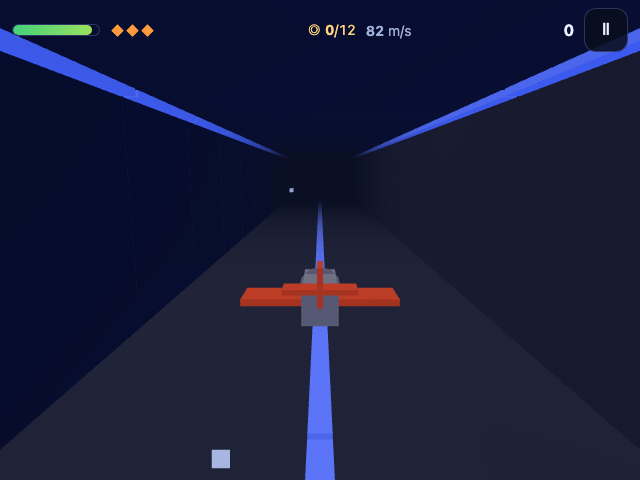
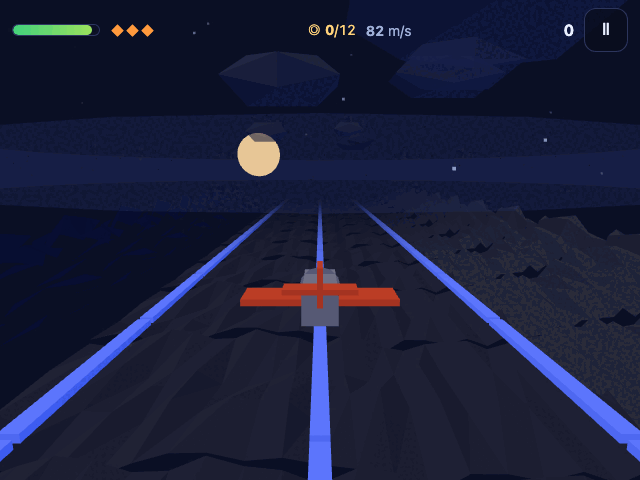
feat: valley flight visuals
- scene.js: low-poly ridge walls + rolling ground, open sky (stars, sun glow, horizon haze), high-altitude cloud band for the top bound
- keep all rules/collisions unchanged (tests still 29/29)
- regenerate 640x480 thumbnail (37.5KB, <50KB)

diff --git a/scene.js b/scene.js
@@ -1,18 +1,60 @@
-// scene.js — Three.js 視覺層。只依賴傳入的 THREE namespace；不碰 window.PG／DOM 邏輯。
+// scene.js — Three.js 視覺層：山谷飛行（規則參數仍來自 rules.js；不碰 window.PG）
 import { RULES } from "./rules.js";
 
 const SEG_LEN = 14;
 const SEG_COUNT = 14; // 覆蓋 196 單位，約等於地平線深度
-const STAR_COUNT = 420;
+const STAR_COUNT = 520;
 const STAR_SPAN = 360;
 
-/** 由 id 產生穩定的偽隨機角度（避免 Math.random 讓同場岩柱形狀跳動） */
+function mulberry32(seed) {
+  let a = seed >>> 0;
+  return function rng() {
+    a |= 0;
+    a = (a + 0x6d2b79f5) | 0;
+    let t = Math.imul(a ^ (a >>> 15), 1 | a);
+    t = (t + Math.imul(t ^ (t >>> 7), 61 | t)) ^ t;
+    return ((t ^ (t >>> 14)) >>> 0) / 4294967296;
+  };
+}
+
+/** 由 id 產生穩定的偽隨機角度（避免同場岩柱形狀跳動） */
 function hashAngle(id, salt) {
   let h = (id * 2654435761 + salt * 97) >>> 0;
   h ^= h >>> 13;
   h = Math.imul(h, 0xc2b2ae35) >>> 0;
   h ^= h >>> 16;
   return (h / 4294967296) * Math.PI * 2;
+}
+
+function buildTerrain(THREE, r, kind) {
+  // kind: "mountain"（側山脊，朝走廊中心下降）| "ground"（地面山丘）
+  const rng = mulberry32(kind === "mountain" ? 0x5eed : 0x1a2b);
+  const width = kind === "mountain" ? r.halfW + 4 : r.halfW * 2 + 8;
+  const geo = new THREE.PlaneGeometry(width, SEG_LEN, 22, 3);
+  geo.rotateX(-Math.PI / 2); // 朝上
+  const pos = geo.attributes.position;
+  for (let i = 0; i < pos.count; i++) {
+    const x = pos.getX(i); // 本地 -width/2..width/2
+    const z = pos.getZ(i);
+    if (kind === "mountain") {
+      // 內緣（x=-width/2）低，朝外緣（x=+width/2）上升
+      const u = (x + width / 2) / width; // 0=內 .. 1=外
+      const fall = Math.pow(u, 1.4);
+      const y =
+        (rng() * 5 + 3.5) * fall +
+        (rng() - 0.5) * 2.2 * fall +
+        Math.sin(x * 0.3 + z * 0.4) * 0.7 * fall;
+      pos.setY(i, y);
+    } else {
+      const y =
+        (rng() - 0.5) * 1.4 +
+        Math.sin(x * 0.18 + z * 0.45) * 0.5 +
+        Math.sin(z * 0.9) * 0.3;
+      pos.setY(i, y);
+    }
+  }
+  geo.computeVertexNormals();
+  return geo;
 }
 
 export function createScene(THREE, hostEl) {
@@ -39,48 +81,102 @@ export function createScene(THREE, hostEl) {
   // ── 星空 ────────────────────────────────────────────────
   const starPos = new Float32Array(STAR_COUNT * 3);
   for (let i = 0; i < STAR_COUNT; i++) {
-    starPos[i * 3] = (Math.random() * 2 - 1) * 180;
-    starPos[i * 3 + 1] = (Math.random() * 2 - 1) * 140;
+    starPos[i * 3] = (Math.random() * 2 - 1) * 220;
+    starPos[i * 3 + 1] = Math.random() * 160; // 地平線以上
     starPos[i * 3 + 2] = -STAR_SPAN + Math.random() * STAR_SPAN;
   }
   const starGeo = new THREE.BufferGeometry();
   starGeo.setAttribute("position", new THREE.BufferAttribute(starPos, 3));
   const stars = new THREE.Points(
     starGeo,
-    new THREE.PointsMaterial({ color: 0xbfd0ff, size: 0.9, sizeAttenuation: true, transparent: true, opacity: 0.85 })
+    new THREE.PointsMaterial({ color: 0xbfd0ff, size: 1.0, sizeAttenuation: true, transparent: true, opacity: 0.85 })
   );
   scene.add(stars);
 
-  // ── 走廊（分節循環）─────────────────────────────────────
-  const wallMat = new THREE.MeshStandardMaterial({ color: 0x232c4a, roughness: 0.92, metalness: 0.12, flatShading: true });
-  const stripMat = new THREE.MeshStandardMaterial({ color: 0x7d95ff, emissive: 0x2c46b8, emissiveIntensity: 1.1, roughness: 0.4, metalness: 0.3 });
+  // ── 地平線霧光（太陽在遠方）────────────────────────────
+  const sunGlow = new THREE.Mesh(
+    new THREE.SphereGeometry(9, 20, 20),
+    new THREE.MeshBasicMaterial({ color: 0xffd9a0, fog: false, transparent: true, opacity: 0.9 })
+  );
+  sunGlow.position.set(-26, 10, -r.horizonZ + 6);
+  scene.add(sunGlow);
+  const horizonHaze = new THREE.Mesh(
+    new THREE.CylinderGeometry(1, 1, 1, 24, 1, true),
+    new THREE.MeshBasicMaterial({
+      color: 0x2a3a7a,
+      transparent: true,
+      opacity: 0.22,
+      side: THREE.DoubleSide,
+      depthWrite: false,
+      fog: false,
+    })
+  );
+  horizonHaze.scale.set(120, 14, 120);
+  horizonHaze.position.set(0, 4, -r.horizonZ + 2);
+  scene.add(horizonHaze);
+
+  // ── 山谷地形（分節循環：側山脊＋地面山丘）───────────────
+  const ridgeMat = new THREE.MeshStandardMaterial({ color: 0x232c4a, roughness: 0.95, metalness: 0.05, flatShading: true });
+  const groundMat = new THREE.MeshStandardMaterial({ color: 0x1d2440, roughness: 0.97, metalness: 0.03, flatShading: true });
+  const edgeMat = new THREE.MeshStandardMaterial({ color: 0x7d95ff, emissive: 0x2c46b8, emissiveIntensity: 1.2, roughness: 0.4, metalness: 0.3 });
+  const ridgeGeo = buildTerrain(THREE, r, "mountain");
+  const groundGeo = buildTerrain(THREE, r, "ground");
+
+  // 側山脊：高緣朝外，內緣（走廊側）貼著壁面低下去
+  const ridgeGeoL = ridgeGeo.clone();
+  ridgeGeoL.scale(-1, 1, 1); // 左側鏡射（高緣在外）
+  const ridgeGeoR = ridgeGeo; // 右側原向（高緣在 +x 外緣）
+
   const segs = [];
   for (let i = 0; i < SEG_COUNT; i++) {
     const g = new THREE.Group();
-    const wallL = new THREE.Mesh(new THREE.BoxGeometry(4, 26, SEG_LEN), wallMat);
-    wallL.position.set(-(r.halfW + 2), 0, 0);
-    g.add(wallL);
-    const wallR = wallL.clone();
-    wallR.position.x = r.halfW + 2;
-    g.add(wallR);
-    const floor = new THREE.Mesh(new THREE.BoxGeometry(r.halfW * 2 + 8, 2, SEG_LEN), wallMat);
-    floor.position.y = -(r.halfH + 1);
-    g.add(floor);
-    const ceil = floor.clone();
-    ceil.position.y = r.halfH + 1;
-    g.add(ceil);
-    const strip = new THREE.Mesh(new THREE.BoxGeometry(1.1, 0.5, SEG_LEN - 0.4), stripMat);
-    strip.position.set(-(r.halfW - 0.55), r.halfH - 0.55, 0);
-    g.add(strip);
-    const strip2 = strip.clone();
-    strip2.position.x = r.halfW - 0.55;
-    g.add(strip2);
-    const strip3 = strip.clone();
-    strip3.position.set(0, -(r.halfH - 0.55), 0);
-    g.add(strip3);
+
+    const ridgeL = new THREE.Mesh(ridgeGeoL, ridgeMat);
+    ridgeL.position.set(-(r.halfW + 2) - (r.halfW + 4) / 2 + 1.5, -(r.halfH + 1), 0);
+    g.add(ridgeL);
+    const ridgeR = new THREE.Mesh(ridgeGeoR, ridgeMat);
+    ridgeR.position.set(r.halfW + 2 + (r.halfW + 4) / 2 - 1.5, -(r.halfH + 1), 0);
+    g.add(ridgeR);
+
+    const ground = new THREE.Mesh(groundGeo, groundMat);
+    ground.position.set(0, -(r.halfH + 1), 0);
+    g.add(ground);
+
+    // 內緣導引燈帶（山脊底緣＋地面邊緣）
+    const stripL = new THREE.Mesh(new THREE.BoxGeometry(1.0, 0.45, SEG_LEN - 0.4), edgeMat);
+    stripL.position.set(-(r.halfW - 0.5), -(r.halfH - 0.6), 0);
+    g.add(stripL);
+    const stripR = stripL.clone();
+    stripR.position.x = r.halfW - 0.5;
+    g.add(stripR);
+    const stripC = new THREE.Mesh(new THREE.BoxGeometry(0.9, 0.4, SEG_LEN - 0.4), edgeMat);
+    stripC.position.set(0, -(r.halfH - 0.55), 0);
+    g.add(stripC);
+
     g.position.z = -r.horizonZ + (i / SEG_COUNT) * SEG_COUNT * SEG_LEN;
     segs.push(g);
     scene.add(g);
+  }
+
+  // ── 高空霧氣帶（視覺化頂部邊界，不影響規則）─────────────
+  const cloudMat = new THREE.MeshStandardMaterial({
+    color: 0x39456e,
+    roughness: 1,
+    metalness: 0,
+    transparent: true,
+    opacity: 0.55,
+    flatShading: true,
+  });
+  const clouds = [];
+  {
+    const crng = mulberry32(0xc10d);
+    for (let i = 0; i < 10; i++) {
+      const m = new THREE.Mesh(new THREE.IcosahedronGeometry(1.6 + crng() * 2.2, 0), cloudMat);
+      m.position.set((crng() * 2 - 1) * (r.halfW - 2), r.halfH + 1 + crng() * 2.5, -r.horizonZ + crng() * (SEG_COUNT * SEG_LEN));
+      m.scale.set(1.6 + crng(), 0.8, 1.2 + crng());
+      clouds.push(m);
+      scene.add(m);
+    }
   }
 
   // ── 自機 ────────────────────────────────────────────────
@@ -165,10 +261,15 @@ export function createScene(THREE, hostEl) {
     const speed = active && sim ? sim.speed : 24;
     const move = speed * dt;
 
-    // 走廊循環推進
+    // 地形循環推進
     for (const g of segs) {
       g.position.z += move;
       if (g.position.z > r.removeZ + SEG_LEN / 2) g.position.z -= SEG_COUNT * SEG_LEN;
+    }
+    // 高雲循環（稍慢＝視差）
+    for (const m of clouds) {
+      m.position.z += move * 0.82;
+      if (m.position.z > r.removeZ + 10) m.position.z -= SEG_COUNT * SEG_LEN;
     }
     // 星空慢速流（平移一個完整跨度後無縫循環）
     stars.position.z += move * 0.25;
